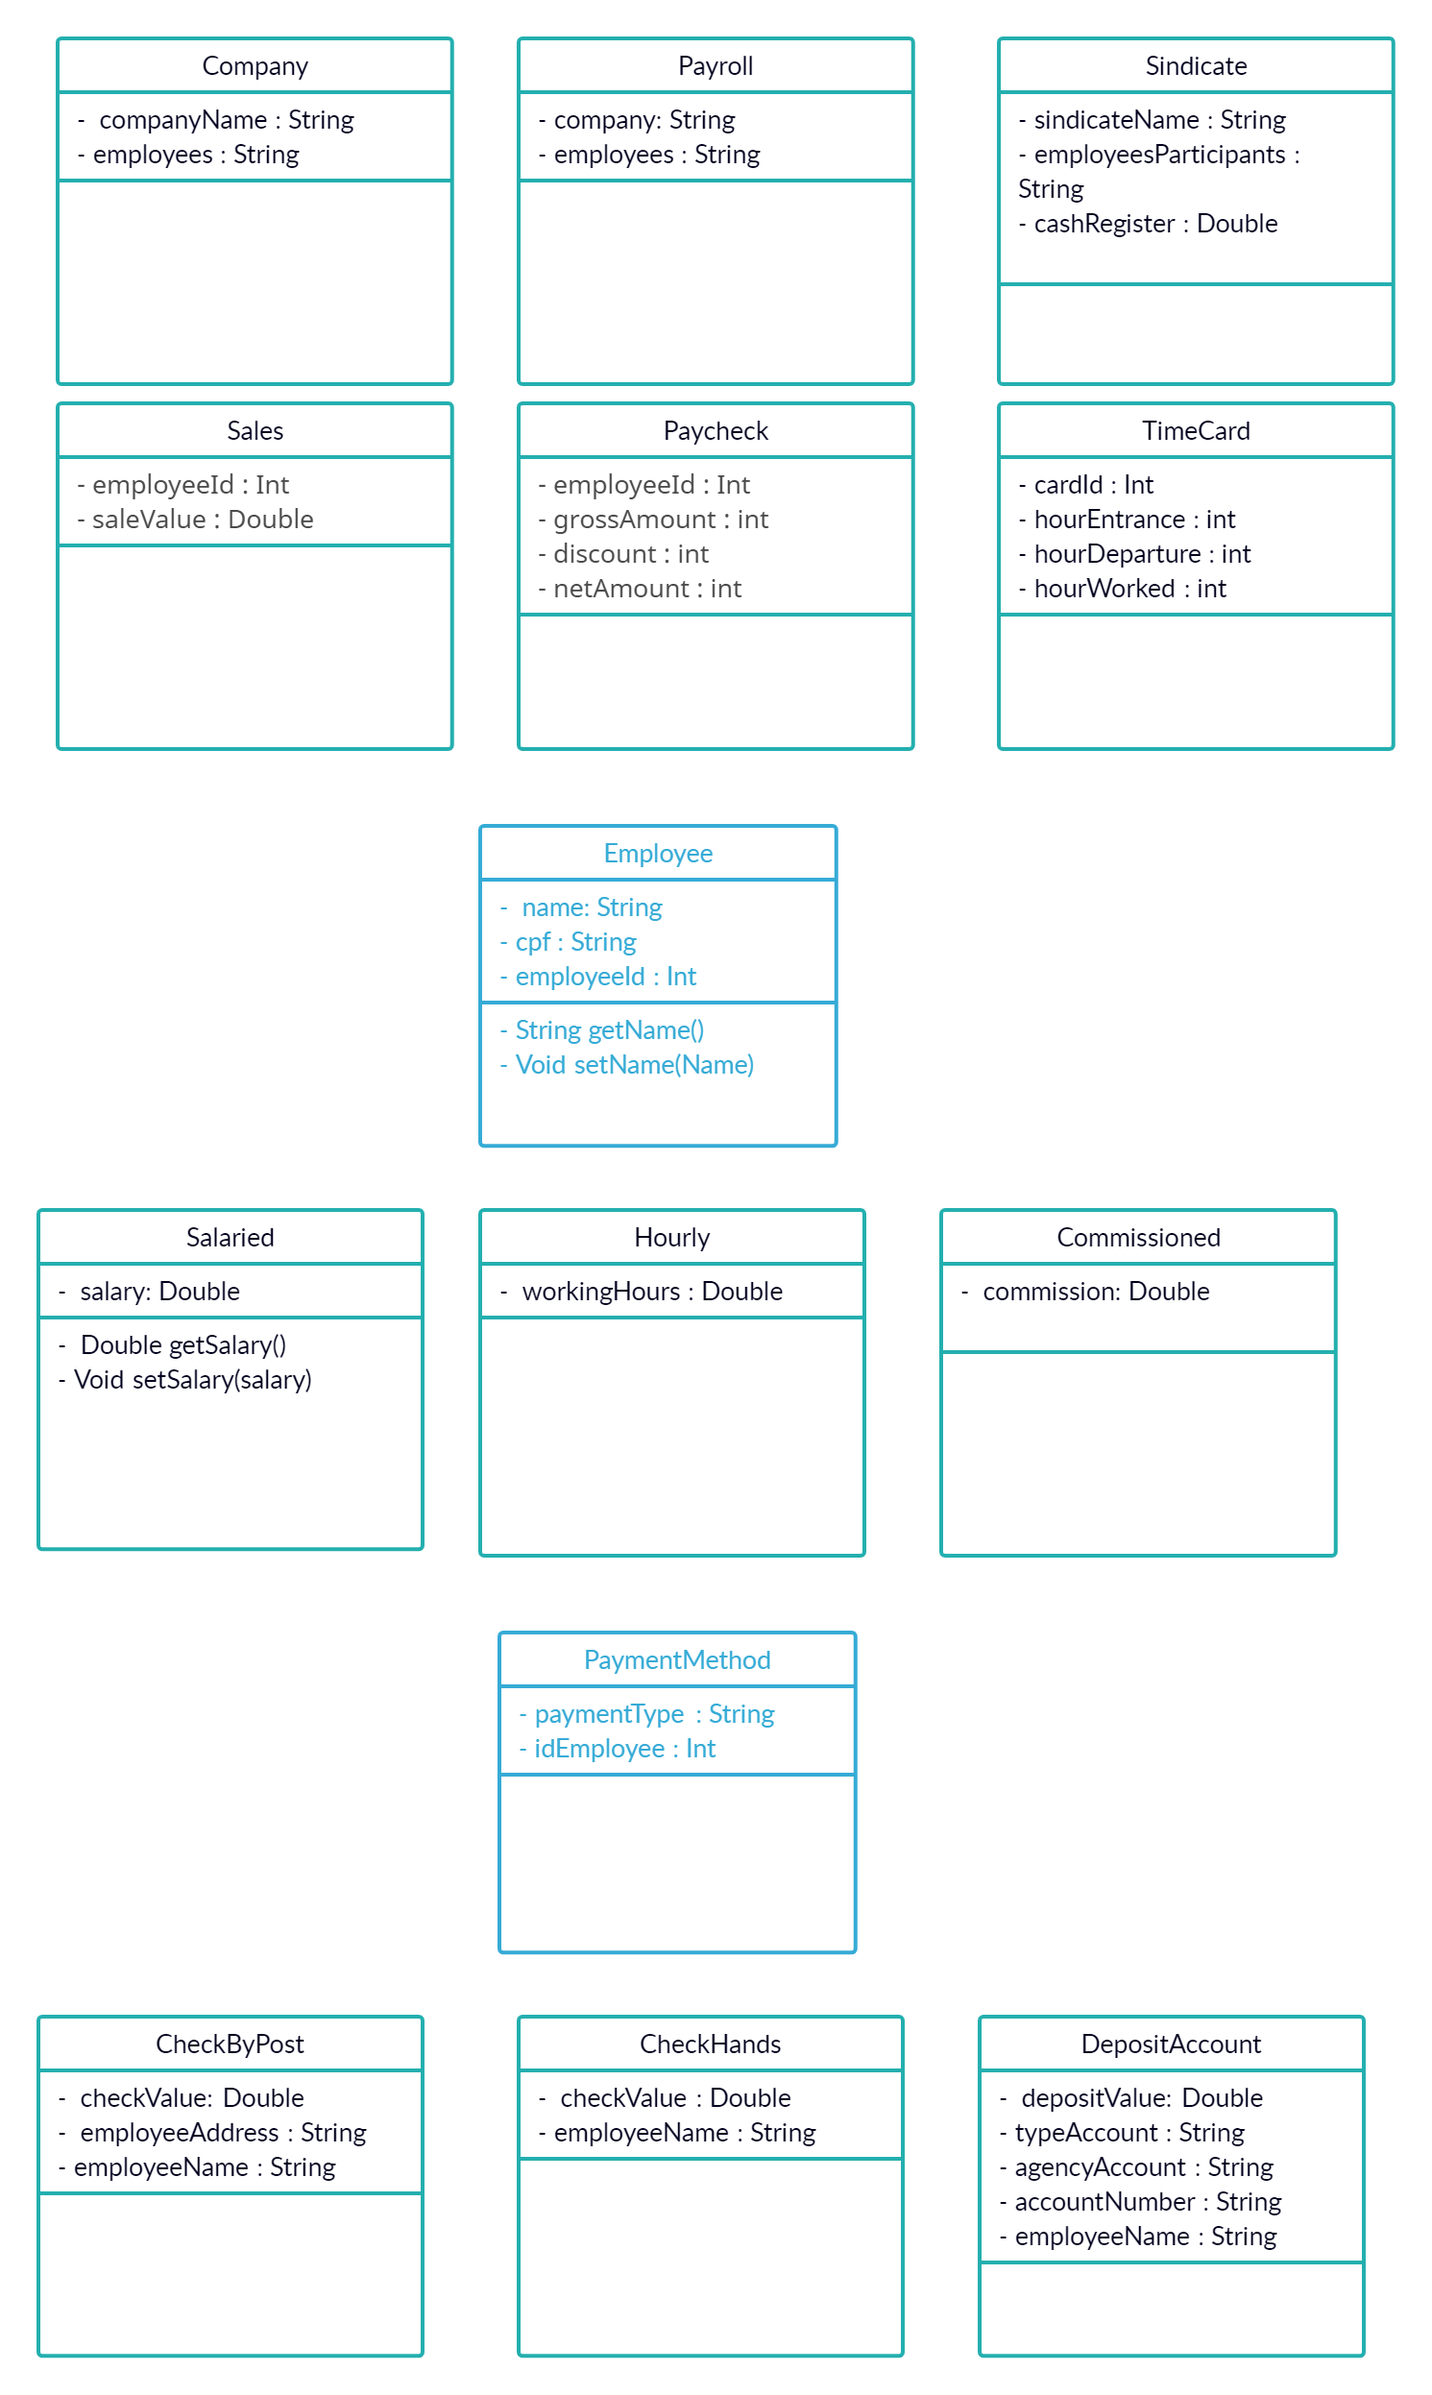
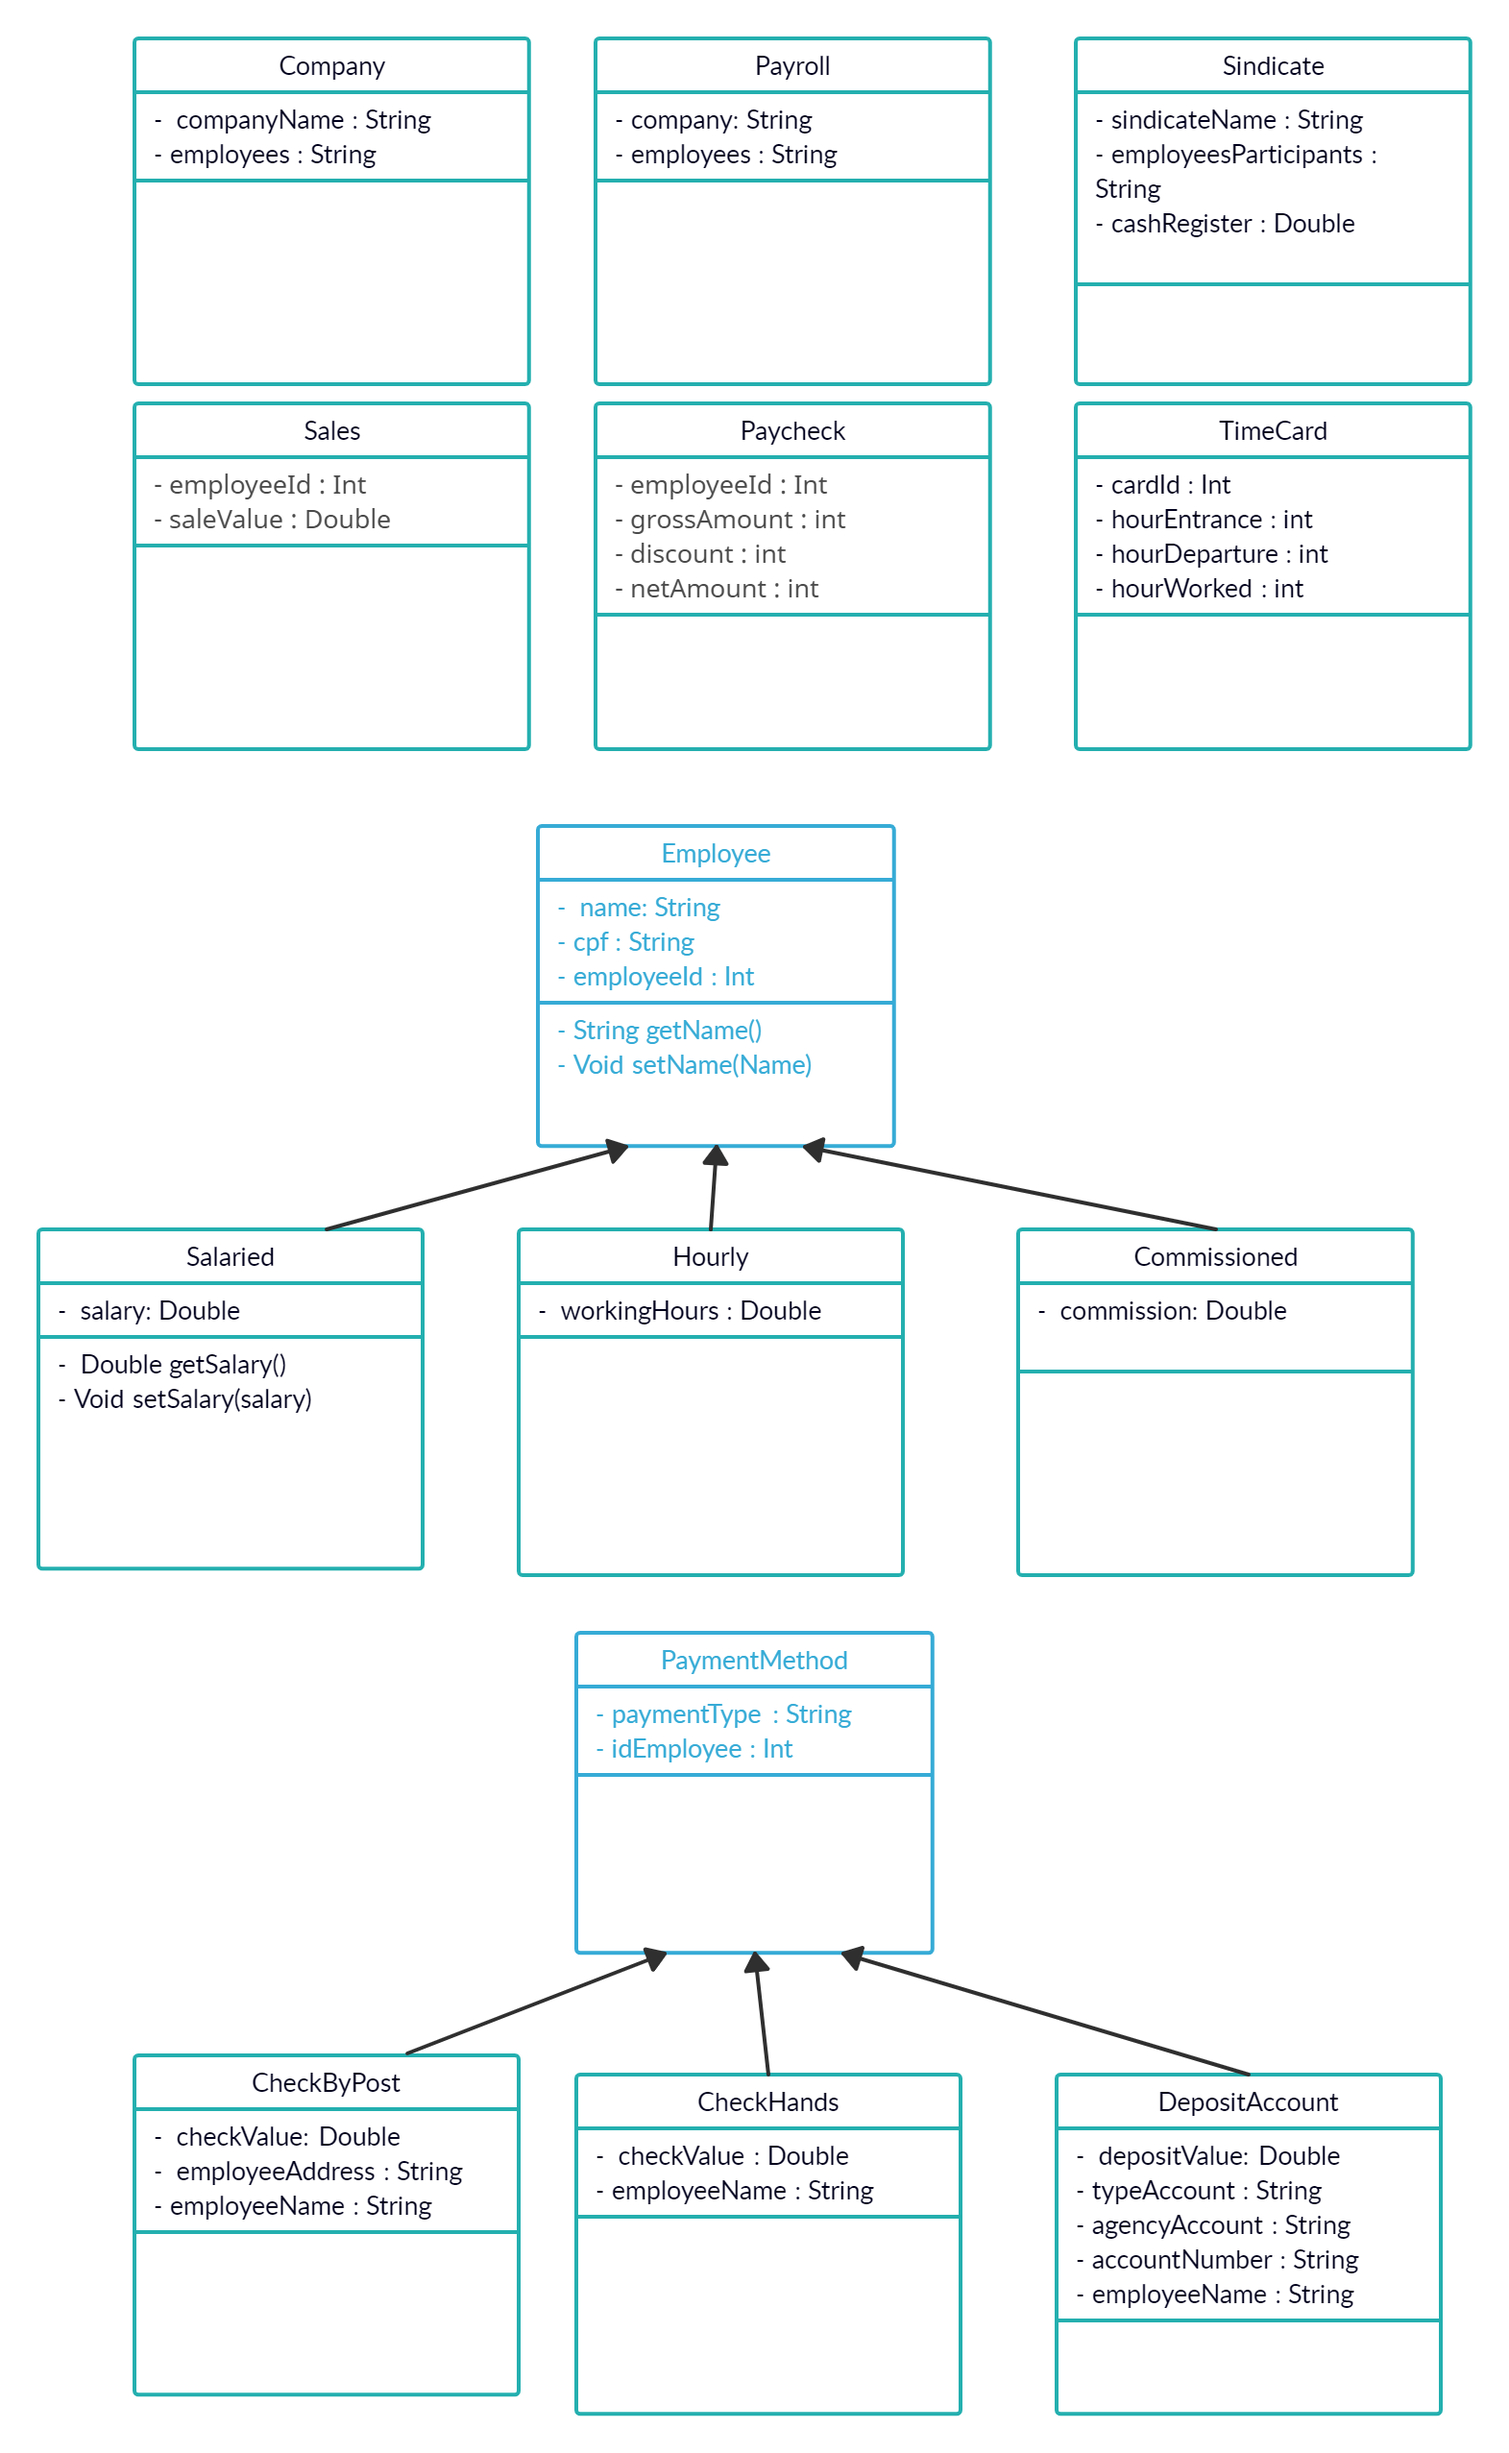
"atualiações na herança da ultima aula"

diff --git a/p3/src/com/company/Employee.java b/p3/src/com/company/Employee.java
@@ -8,20 +8,6 @@ public class Employee {
     private String address;
 
 
-    public Employee (String name, String cpf, int employeeId, String address) {
-
-        if(validateData(name, cpf) == true) {
-            this.name = name;
-            this.cpf = cpf;
-            this.employeeId = employeeId;
-            this.address = address;
-            System.out.println("Sucesso em Salvar os Dados");
-
-        } else {
-            System.out.println("Erro na Verificação dos Dados do Empregado");
-        }
-
-    }
     public boolean validateData (String name, String cpf) {
         int contadorCpf = 0;
 
@@ -46,7 +32,6 @@ public class Employee {
     public String printEmployee(Employee empregado) {
         return "Name: " + this.name + "\ncpf: " + this.cpf;
     }
-
     public String getName() {
         return name;
     }

diff --git a/p3/src/com/company/Main.java b/p3/src/com/company/Main.java
@@ -17,8 +17,9 @@ public class Main {
         if(op == 1) { */
 
 
-        Employee empregado1 = new Employee("Jonas", "11315461480", contEmployee, "Travessa Maria Erivânia NM 5/" );
-        System.out.println(empregado1.printEmployee(empregado1));
+        Employee hourly1 = new Hourly();
+        hourly1.setName("Jonas");
+        hourly1.getName();
 
 
 

diff --git a/p3/src/com/company/Commissioned.java b/p3/src/com/company/Commissioned.java
@@ -1,0 +1,5 @@
+package com.company;
+
+public class Commissioned extends Employee {
+    private double commission;
+}

diff --git a/p3/src/com/company/Hourly.java b/p3/src/com/company/Hourly.java
@@ -1,0 +1,6 @@
+package com.company;
+
+public class Hourly extends Employee {
+    private double workingHours;
+
+}

diff --git a/p3/src/com/company/Salaried.java b/p3/src/com/company/Salaried.java
@@ -1,0 +1,5 @@
+package com.company;
+
+public class Salaried extends Employee {
+    private double salary;
+}
